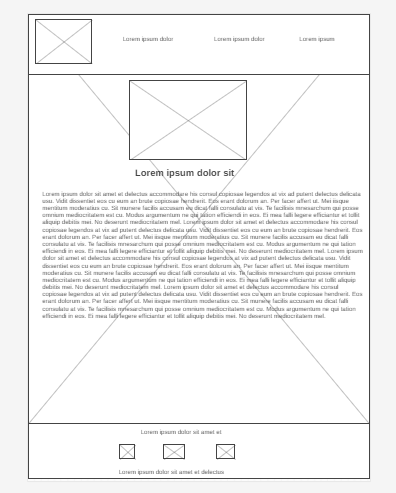
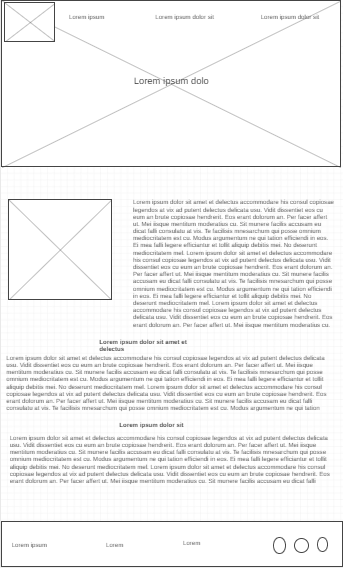
styled homepage

diff --git a/my_portfolio/index.html b/my_portfolio/index.html
@@ -3,12 +3,12 @@
 <head>
     <meta charset="UTF-8">
     <meta name="viewport" content="width=device-width, initial-scale=1.0">
-    <link rel="stylesheet" href=" " >
+    <link rel="stylesheet" href="styles/styles.css" >
     <title>Bettina Menya Portfoio| Home </title>
 </head>
 <body>
     <header>
-     <a  id="logo" href=" " target="_blank"><img src="portfolio_images/my_logo.png">
+     <a  href=" " target="_blank"><img id="logo" src="portfolio_images/my_logo.png" alt="logo photo">
      </a>
      <nav>
       <a href="index.html">Home</a>
@@ -19,32 +19,34 @@
     </header>
 
     <main id="content">
-     <img id="home_background" src="portfolio_images/homepage_photo.avif" alt="image of computer">
-     <img id="my_picture" src="portfolio_images/homepage_photo2.jpeg" alt="Photo of Bettina">
+        <div id="top-background">
+            <img id="top-image" src="portfolio_images/homepage_photo3.jpg" alt="photo of computer">
+            <h2 id="top-heading">About Me</h2>
+        </div>
+        <div id="word-section">
+            <img id="my_picture" src="portfolio_images/homepage_photo2.jpeg" alt="Photo of me">
+            <p id="para1">Hello, My name is<em> Bettina Menya</em>. I am a passionate web developer based in Nairobi, Kenya, and I'm excited to share my journey in web development. Currently, I am a student at BYU-Idaho, where I am actively pursuing a degree in Web Development. Since Childhood, I found myself drawn to the world of computers. 
+            My fascination with this ever-evolving field is what led me to the world of web design. Over time, I have developed a deep love for creating websites that provide users with an enjoyable experience.
+            </p> <!--added emphasis to my name so that it's memorable even when reading the other paragraphs-->
      
-     <h2>About Me</h2>
+            <h2 id="heading2">Skills and Expertise</h2>
      
-     <p>Hello, I am a passionate web developer based in Nairobi, Kenya, and I'm excited to share my journey in web development. Currently, I am a student at BYU-Idaho, where I am actively pursuing a degree in Web Development. Since Childhood, I found myself drawn to the world of computers. 
-      My fascination with this ever-evolving field is what led me to the world of web design. Over time, I have developed a deep love for creating websites that provide users with an enjoyable experience.
-     </p>
+            <p id="para2">As I began my journey into web development, I have worked diligently to become proficient in the fundamental building blocks of web development: HTML and CSS. 
+            These two languages are the backbone of any web project and mastering them is crucial to creating beautiful and functional websites. 
+            My goal is to create web experiences that are visually appealing and easy to navigate.
+            </p>
      
-     <h2>Skills and Expertise</h2>
+            <h2 id="heading3">Join Me On My Journey</h2>
      
-     <p>As I began my journey into web development, I have worked diligently to become proficient in the fundamental building blocks of web development: HTML and CSS. 
-        These two languages are the backbone of any web project and mastering them is crucial to creating beautiful and functional websites. 
-        My goal is to create web experiences that are visually appealing and easy to navigate.
-     </p>
-     
-     <h2>Join Me On My Journey</h2>
-     
-     <p>I invite you to join me on my journey as I continue to explore the dynamic world of web development. Whether you're a fellow developer, 
-        a business owner looking for a reliable web solution, or someone simply interested in the web development process, I'm eager to connect, collaborate, and learn from each other. 
-        Thank you for taking the time to explore my portfolio, and I look forward to connecting with you to discuss potential collaborations, projects, or any inquiries you may have.
-     </p>
+            <p id="para3">I invite you to join me on my journey as I continue to explore the dynamic world of web development. Whether you're a fellow developer, 
+            a business owner looking for a reliable web solution, or someone simply interested in the web development process, I'm eager to connect, collaborate, and learn from each other. 
+            Thank you for taking the time to explore my portfolio, and I look forward to connecting with you to discuss potential collaborations, projects, or any inquiries you may have.
+            </p>
+        </div>
     </main>
     
     <footer>
-        <p>All Rights Reserved &copy;2023</p>
+        <p id="footer-msg">All Rights Reserved &copy;2023</p>
         <p> <a href="site-plan.html">Site Plan</a></p>
         <p><a href="contactus.html">Contact</a></p>
         
@@ -58,6 +60,7 @@
             <a href="https://www.instagram.com/betina_menya" target="_blank">
                 <img src="portfolio_images/instagram_logo.png" alt="instagram icon">
              </a>
+           
         </div>
     </footer>   
 </body>

diff --git a/my_portfolio/styles/styles.css b/my_portfolio/styles/styles.css
@@ -1,0 +1,144 @@
+@import url('https://fonts.googleapis.com/css2?family=IBM+Plex+Mono:wght@700&family=Open+Sans:wght@300&family=Pixelify+Sans&display=swap');
+
+*{
+    margin: 0;
+}
+header{
+    display: grid;
+    grid-template-columns: 150px auto;
+}
+#logo{
+    width:150px;
+    margin-left: 20px;
+}
+nav,a {
+    display: flex;
+    justify-content: space-around;
+    color:#FFFFFF;
+    font-family: 'IBM Plex Mono', Arial, Helvetica, sans-serif;
+    font-size: 30px;
+    padding-top: 10px;
+    text-decoration: none;
+}
+#top-background{
+    display: grid;
+    grid-template-columns: repeat(3,0.5fr);
+    grid-template-rows: 1fr;
+    
+    
+ }   
+#top-image{
+    width: 100%;
+    height: 80%;
+    grid-column:1/4;
+    grid-row:1/2;
+    margin-top: -200px;
+    z-index: -1;
+    margin-bottom:-1200px; /*Sister Hollis you have to forgive me here trial and error to reduce the huge gap between the two elements, will appreciate your guidance as i cannot do this with a future client*/
+}
+#top-heading{
+    grid-column: 1/4;
+    grid-row:1/2;
+    font-size: 500%;
+    color: #FFFFFF;
+    text-align: center;
+    
+}
+#my_picture{
+    display: inline;
+    width: 400px;
+    grid-column: 1/5;
+    margin-left: 30px;
+    border-radius: 200px;
+    
+    
+}
+h2{
+    font-family:'IBM Plex Mono', Arial, Helvetica, sans-serif;
+    font-weight: 300;
+    color:#14213D;
+}
+p{
+    font-family: 'Open Sans', Arial, Helvetica, sans-serif;
+    font-weight: 200;
+    color: #14213D;
+}
+#word-section{
+    margin-top: -200px; /*same here i ran out of options and time was running out :( */
+    
+    display: grid;
+    grid-template-columns: repeat(10, 1fr);
+    grid-template-rows: repeat(5, 0.2fr);
+    
+}
+#heading2, #heading3{
+    text-align: center;
+    font-size: 200%;
+}
+#para1{
+    grid-column: 5/11;
+    grid-row:1/2;
+    text-align: center;
+    font-size: 120%;
+    margin-right: 50px;
+    line-height: 50px;
+    background-color: #E5E5E5;
+    border-radius: 20px;
+    padding:20px;
+    box-shadow: 3px 3px 3px #FCA311 /*added borders and shadows to place emphasis/attention to this section*/
+   
+}
+#para2,#heading2{
+    grid-column:1/11;
+   
+}
+#heading2{
+    margin-top: 150px;
+}
+#heading3{
+    grid-column:1/11;
+    
+}
+#para2{
+    font-size: 120%;
+    line-height: 40px;
+    margin: 15px;
+}
+#para3{
+    grid-column:1/11;
+    grid-row:5/6;
+    font-size: 120%;
+    line-height: 40px;
+    margin:15px;
+}
+
+footer{
+background-color: #14213D;
+display: flex;
+justify-content: space-around;
+align-items: center;
+margin-top:50px;
+height: 150px;
+}
+
+#footer-msg{
+    color:#FFFFFF;
+}
+.social_media a{
+    display: inline-block;
+    margin-right: 30px;
+    
+}
+.social_media img{
+    width: 30px; 
+    height: 30px; 
+}
+
+
+a:hover{
+    background-color:#FCA311;
+    color:#14213D;
+}
+
+
+
